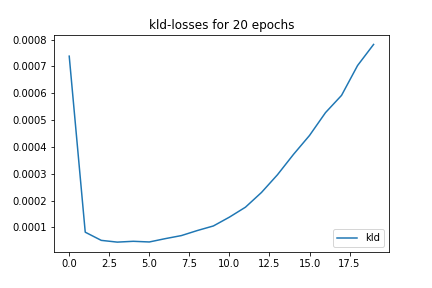
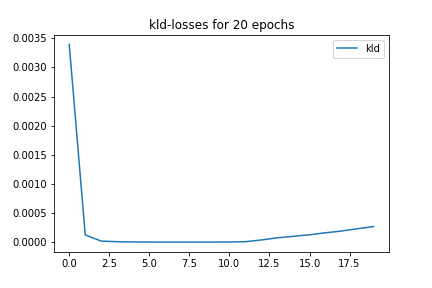
etm min_df 2 num_topis 50

diff --git a/main_lda.py b/main_lda.py
@@ -16,7 +16,7 @@ num_topics = 50
     
 f = open(f'prepared_data/info_vocab_20newsgroups.txt', "a")
 
-for min_df in [2,5,10,30,100]:
+for min_df in [2,10]:
     # data 
     textsloader = None
     textsloader = TextDataLoader(source="20newsgroups", 
@@ -40,7 +40,7 @@ for min_df in [2,5,10,30,100]:
     #print(f'test: {gensim_corpus_train_set[0]}')
     docs_tr, docs_t, docs_v = textsloader.get_docs_in_words_for_each_set()
     del textsloader
-    for num_topics in [10, 50]:
+    for num_topics in [20]:
         ldamodel = lda(train_set, num_topics, id2word)
         #lda(train_set, num_topics ,id2word)
         #del textsloader
